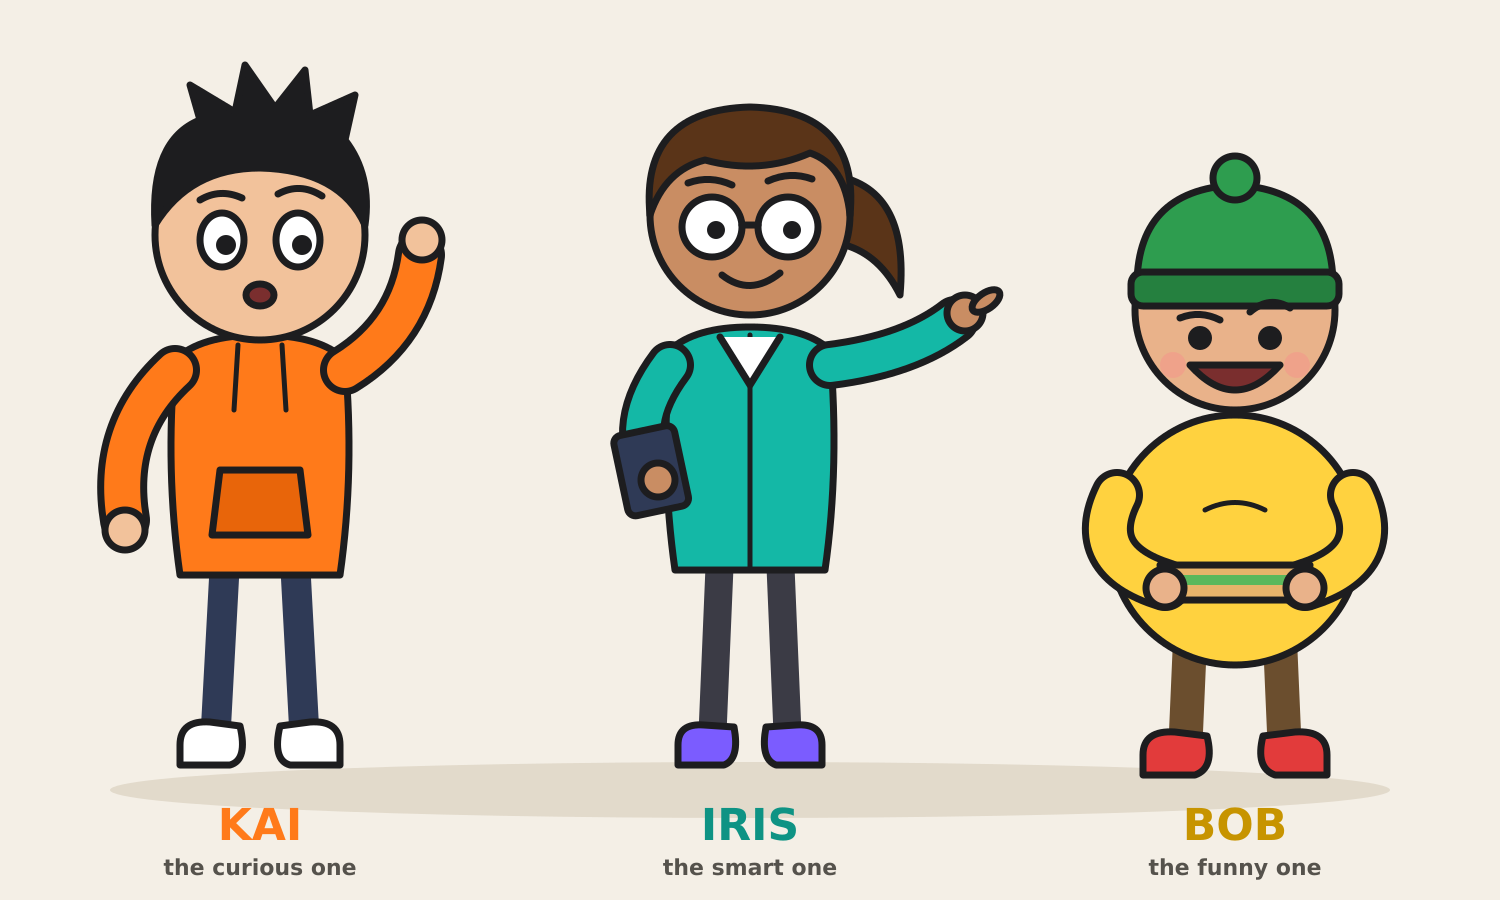
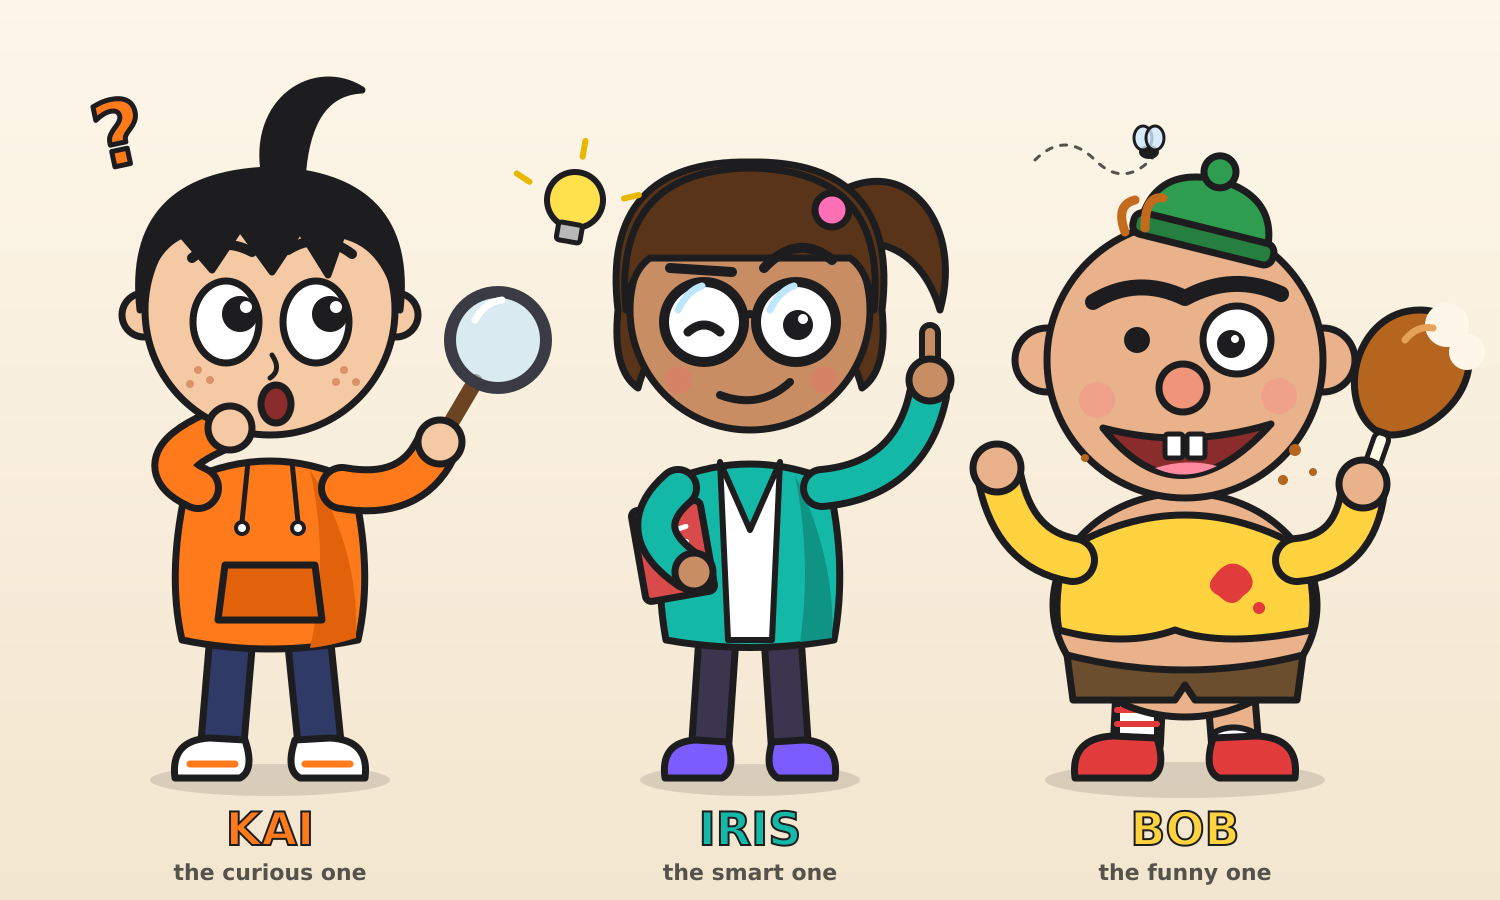
Redesign trio: more expressive, funnier Bob
Claude-Session: https://claude.ai/code/session_012EPCorERkmRy7kAdAThfec

diff --git a/characters/cast.md b/characters/cast.md
@@ -6,7 +6,7 @@ Same look, same voices, same personalities, always. Only the world around them c
 | | KAI | IRIS | BOB |
 |---|---|---|---|
 | Role | The curious one: asks what the viewer is thinking | The smart one: explains, sometimes overconfident | The funny one: reacts, jokes, gets into trouble |
-| Never changes | Spiky black hair, orange hoodie with pocket, navy jeans, white sneakers | Brown hair with ponytail, round glasses, teal jacket, purple sneakers, tablet | Round shape, green beanie with pom-pom, yellow t-shirt, red sneakers, usually holding food |
+| Never changes | Spiky black hair with a giant cowlick, freckles, huge eyes, orange hoodie, white sneakers, magnifying glass | Blunt bangs + ponytail with pink scrunchie, big round glasses, one eyebrow always raised, teal jacket, red book | Huge head, tiny beanie that doesn't fit, unibrow, one small eye + one huge eye, buck teeth, too-short shirt with ketchup stain, mismatched socks, always eating, a fly follows him |
 | Colour | Orange #FF7A1A | Teal #14B8A6 | Yellow #FFD23F |
 | Typical line | "Wait, why is everyone wearing bedsheets?" | "Those are togas. And we have 24 hours." | "Bread for breakfast? Fine." |
 
